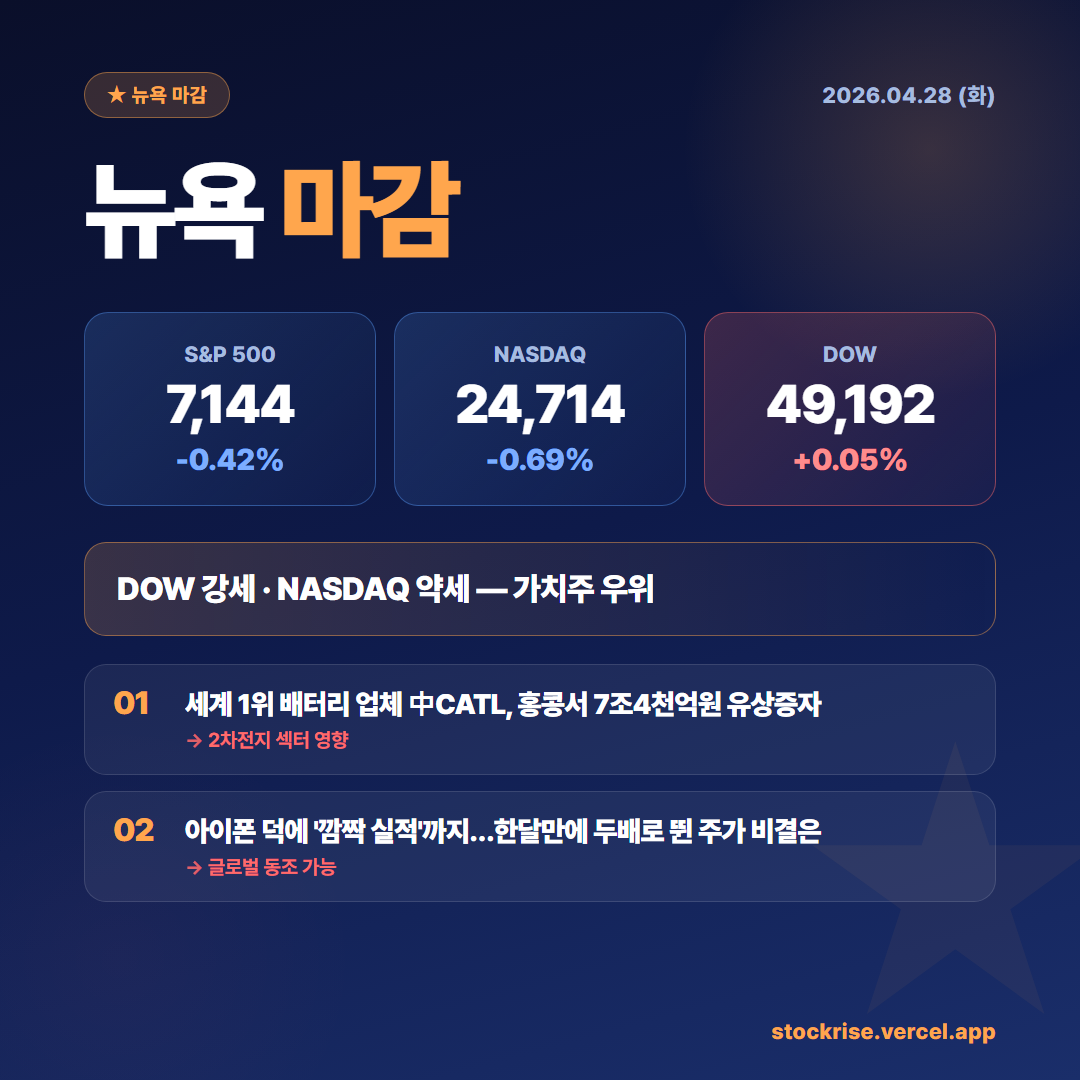
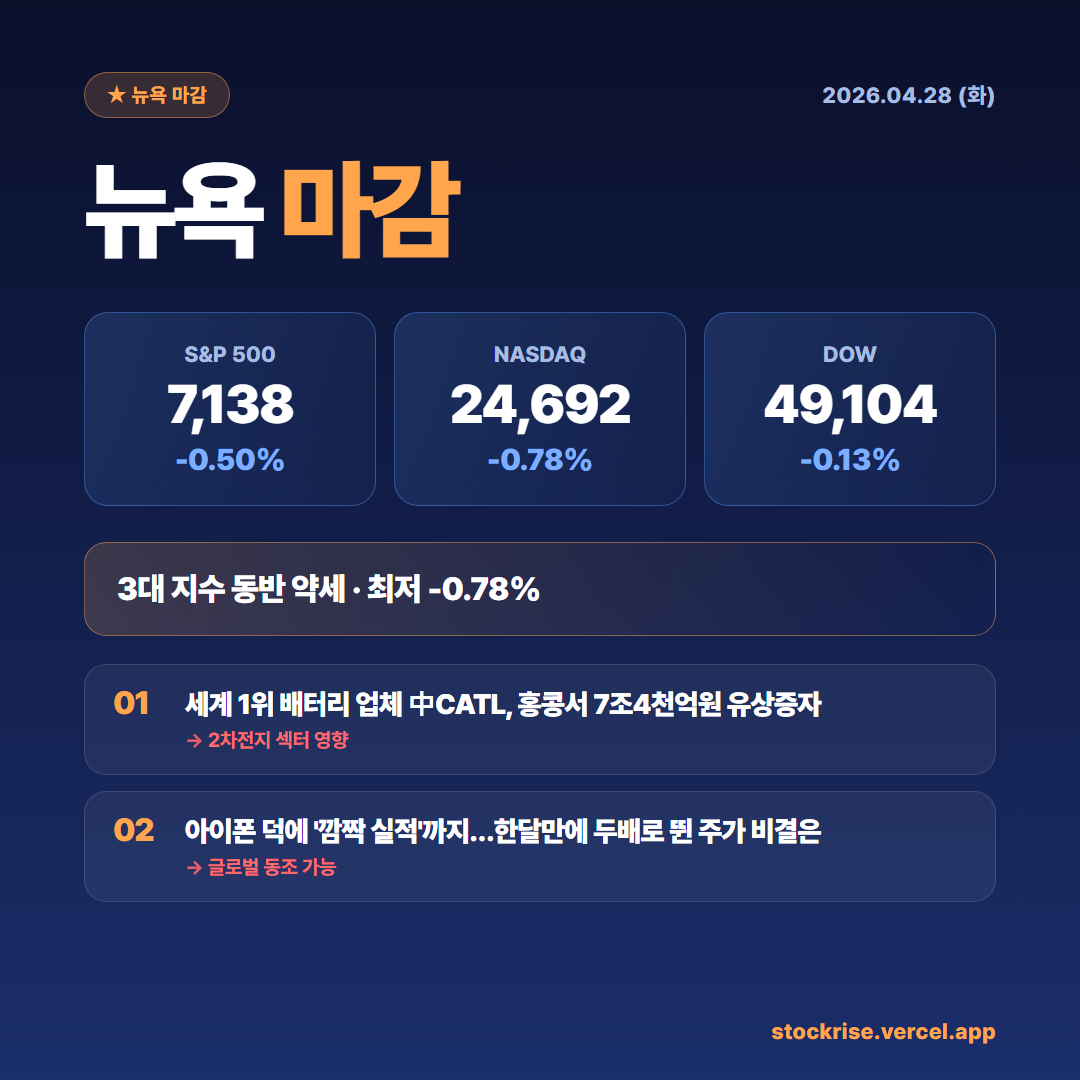
style(cards): 디자인 단순화 — 별 워터마크·코너 글로우 제거 + 상하 그라데이션
변경:
- base.html.tmpl: <span class='bg-glow'> 2개·<span class='bg-watermark'>★</span>
  HTML 요소 자체 제거
- 배경 그라데이션 165deg 대각선 → 180deg 상하 직선, 3-stop → 2-stop
  (bg1 상단 → bg3 하단, 같은 톤 안에서 자연스러운 단순 변화)
- _base.css: 사용 안 하는 .bg-glow*·.bg-watermark 클래스 정의 제거

효과:
- 시각 노이즈 감소 (별·코너 광원 사라짐)
- 본문 시선 집중도 향상
- 카드뉴스 기본 원칙(한 장 = 한 메시지) 강화

diff --git a/cards/templates/_base.css b/cards/templates/_base.css
@@ -88,31 +88,3 @@ body {
   letter-spacing: 0.02em;
   z-index: 2;
 }
-.bg-glow {
-  position: absolute;
-  border-radius: 50%;
-  pointer-events: none;
-  z-index: 0;
-}
-.bg-glow-tr {
-  top: -100px;
-  right: -100px;
-  width: 500px;
-  height: 500px;
-}
-.bg-glow-bl {
-  bottom: -120px;
-  left: -120px;
-  width: 480px;
-  height: 480px;
-}
-.bg-watermark {
-  position: absolute;
-  bottom: 30px;
-  right: -30px;
-  font-size: 320px;
-  line-height: 1;
-  opacity: 0.05;
-  pointer-events: none;
-  z-index: 0;
-}
